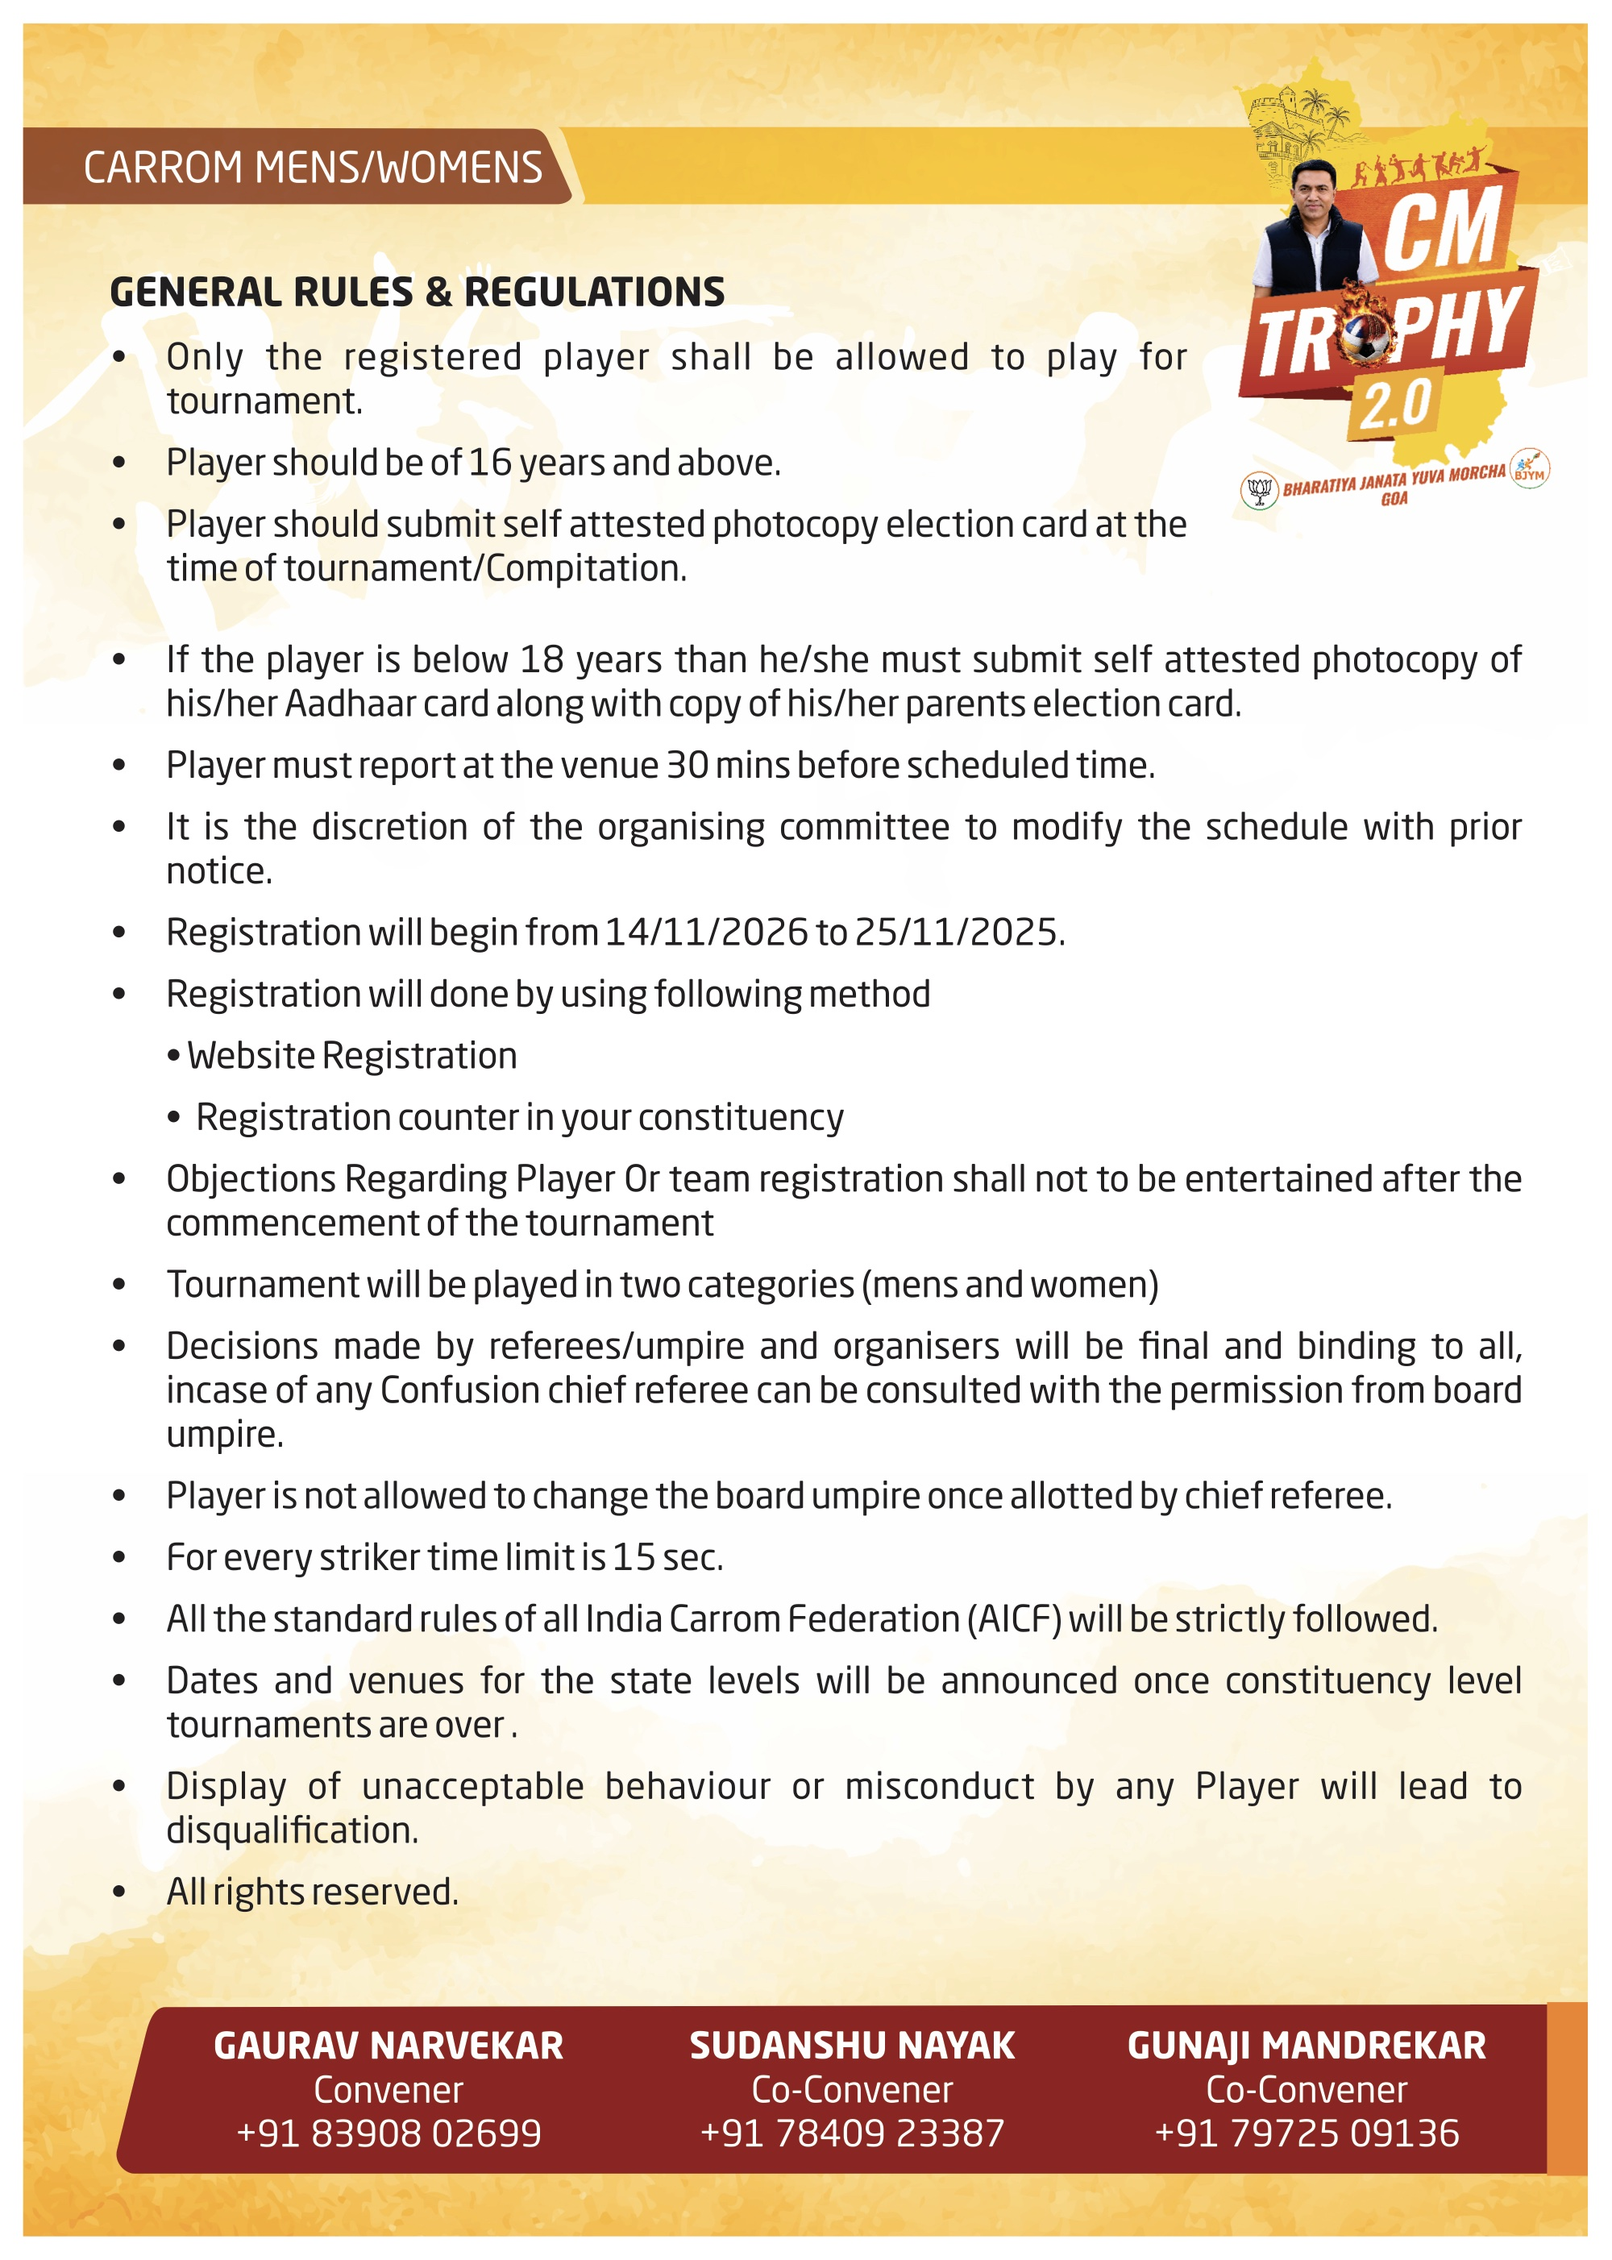
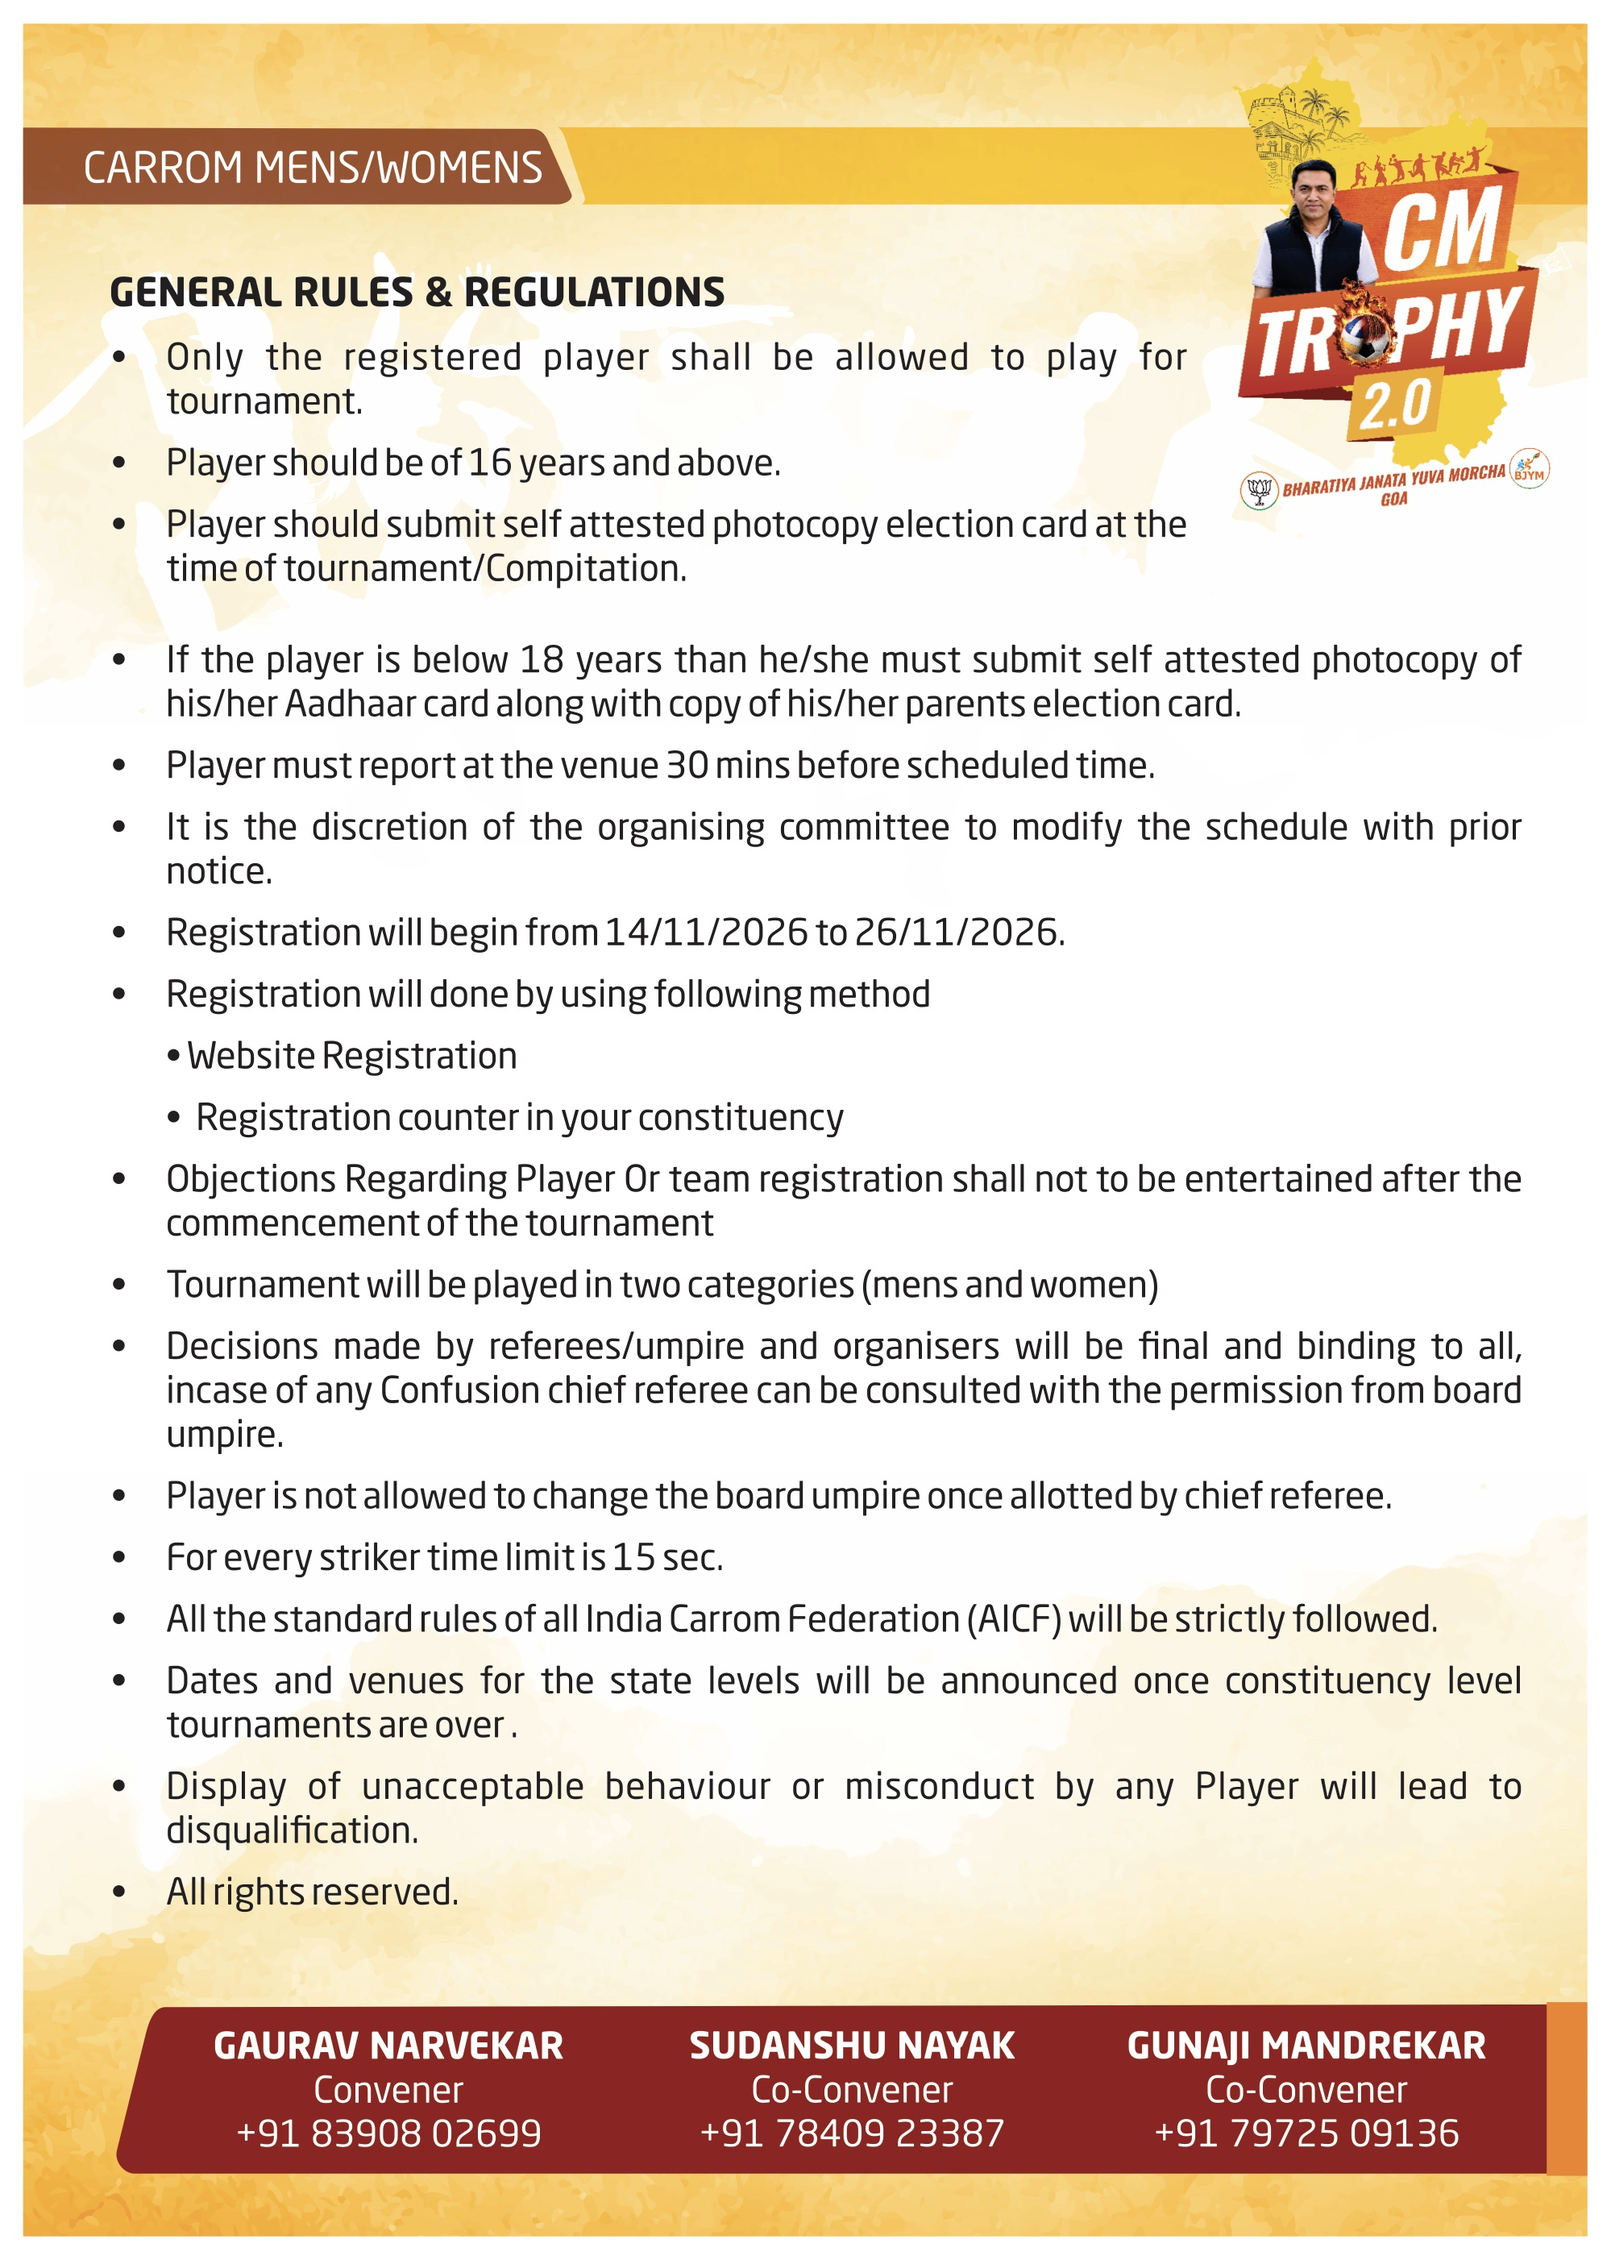
Update event rules and marathon information

diff --git a/public/rules/rules.js b/public/rules/rules.js
@@ -3,8 +3,8 @@ const events = {
   cricket: { title: 'Cricket', pages: [2, 3] },
   football: { title: 'Football', pages: [4, 5, 6, 7] },
   volleyball: { title: 'Volleyball', pages: [8, 9] },
-  carrom: { title: 'Carrom', pages: [10, 11], dateWarning: true },
-  badminton: { title: 'Badminton', pages: [12, 13], dateWarning: true },
+  carrom: { title: 'Carrom', pages: [10, 11] },
+  badminton: { title: 'Badminton', pages: [12, 13] },
   'ghumat-aarti': { title: 'Ghumat Aarti', pages: [14, 15, 16, 17] },
   'group-dance': { title: 'Group Dance', pages: [18, 19] },
   fugdi: { title: 'Fugdi', pages: [20] },
@@ -27,23 +27,17 @@ if (params.get('allow_register') === 'true') {
 if (!event) {
   message.textContent = 'This event could not be found. Please return to the homepage and choose an event.';
 } else {
-  document.title = `${event.title} rules | CM Trophy`;
-  document.querySelector('#event-title').textContent = `${event.title} rules`;
+  const heading = eventName === 'marathon' ? 'Marathon information' : `${event.title} rules`;
+  document.title = `${heading} | CM Trophy`;
+  document.querySelector('#event-title').textContent = heading;
 
   if (params.get('allow_register') === 'true') {
     document.querySelector('#register').hidden = false;
   }
 
-  if (event.pages.length === 0) {
-    message.textContent = 'Marathon rules are not available yet. Please contact the organisers for details.';
+  if (eventName === 'marathon') {
+    document.querySelector('#marathon-information').hidden = false;
   } else {
-    if (event.dateWarning) {
-      const warning = document.createElement('p');
-      warning.className = 'warning';
-      warning.textContent = 'The printed registration dates contain errors. Please contact the organisers for details.';
-      message.after(warning);
-    }
-
     const pages = document.querySelector('#rule-pages');
     event.pages.forEach((pageNumber, index) => {
       const link = document.createElement('a');

diff --git a/public/register/register.js b/public/register/register.js
@@ -178,7 +178,7 @@ function configureEvent() {
     eventOption.required = true;
   }
   document.querySelector('#event-description').textContent = eventSelect.value === 'marathon'
-    ? 'This is an individual event. Marathon rules have not yet been provided; contact the organisers for details.'
+    ? 'This is an individual event. See the marathon information for event details.'
     : event.max > 1 ? `Team size: ${event.min}–${event.max}, including the captain.` : 'This is an individual event.';
   const primaryTitle = eventSelect.value === 'cricket' ? 'Team Leader / Captain' : 'Primary participant';
   document.querySelector('#primary-heading').textContent = primaryTitle;
@@ -265,6 +265,8 @@ function renderReview(data) {
   document.querySelector('#success-rules-link').href = rules;
   document.querySelector('#rules-link').textContent = data.event === 'marathon' ? 'View marathon information' : 'Read the event rules';
   document.querySelector('#rules-link').setAttribute('aria-label', `${document.querySelector('#rules-link').textContent} (opens in a new tab)`);
+  document.querySelector('#success-rules-link').textContent = data.event === 'marathon' ? 'View marathon information' : 'View event rules';
+  document.querySelector('#success-rules-link').setAttribute('aria-label', `${document.querySelector('#success-rules-link').textContent} (opens in a new tab)`);
   document.querySelector('#consent-label').textContent = data.event === 'marathon'
     ? 'I have reviewed the event information and confirm that I have permission to submit these details.'
     : 'I have read the rules and confirm that I have permission to submit these details for all participants.';

diff --git a/public/rules/index.html b/public/rules/index.html
@@ -21,6 +21,25 @@
       <div id="register" class="registration" hidden>
         <a href="/register/">Register <span aria-hidden="true">&#8594;</span></a>
       </div>
+      <section id="marathon-information" hidden>
+        <h2>Event details</h2>
+        <p>22 November 2026 &middot; Report at 4:30 AM &middot; New Zuarii Bridge</p>
+        <p>5 km, 10 km and 21 km half marathon, with men's and women's categories.</p>
+        <p>Prizes for first, second and third place in each men's and women's category:</p>
+        <ul>
+          <li>5 km: &#8377;10,000, &#8377;6,000 and &#8377;4,000</li>
+          <li>10 km: &#8377;20,000, &#8377;12,000 and &#8377;8,000</li>
+          <li>21 km: &#8377;50,000, &#8377;30,000 and &#8377;20,000</li>
+        </ul>
+        <p>For competition rules and further details, contact:</p>
+        <ul>
+          <li>Kareena Shirodkar: <a href="tel:+919881284448">9881284448</a></li>
+          <li>Tanvesh Keni: <a href="tel:+919970702179">+91 99707 02179</a></li>
+        </ul>
+        <a class="rule-page" href="/rules/pages/marathon-poster.png" aria-label="Open the marathon poster at full size">
+          <img src="/rules/pages/marathon-poster.png" alt="CM Trophy half marathon poster. Event details and prizes are listed above." loading="lazy">
+        </a>
+      </section>
       <div id="rule-pages"></div>
       <noscript><p>JavaScript is required to display the event rules. Please return to the homepage or contact <a href="mailto:goacmtrophy@gmail.com">goacmtrophy@gmail.com</a>.</p></noscript>
     </main>

diff --git a/public/rules/rules.css b/public/rules/rules.css
@@ -7,7 +7,6 @@ body { margin: 0; background: #fffaf0; color: #30251d; font-family: Arial, Helve
 h1 { margin: 0; color: #9c2c20; font-size: clamp(32px, 5vw, 48px); }
 #rules-message { line-height: 1.5; }
 #rules-message:empty { display: none; }
-.warning { padding: 14px; border-left: 4px solid #a71f22; background: #fff0cc; line-height: 1.5; }
 .registration { margin: 24px 0; }
 .registration[hidden] { display: none; }
 .registration a { display: inline-flex; gap: 24px; padding: 14px 22px; border-radius: 4px; background: #ba2c1e; color: #fff; font-weight: 700; text-decoration: none; }

diff --git a/public/index.html b/public/index.html
@@ -23,7 +23,7 @@
         <details>
           <summary>Sports</summary>
           <ul>
-            <li>Marathon</li>
+            <li><a href="/rules/?event=marathon&amp;allow_register=true">Marathon</a></li>
             <li><a href="/rules/?event=cricket&amp;allow_register=true">Cricket</a></li>
             <li><a href="/rules/?event=football&amp;allow_register=true">Football</a></li>
             <li><a href="/rules/?event=volleyball&amp;allow_register=true">Volleyball</a></li>

diff --git a/README.md b/README.md
@@ -4,7 +4,7 @@ A Cloudflare Pages site with an event registration wizard and a Pages Function t
 
 ## Event rules
 
-The homepage links to event rules at `/rules/?event=<event>`. The sheets are images rendered from the supplied PDF; select a sheet to view it at full size. The PDF did not include marathon rules, so the homepage's Marathon item does not link to a rules page. The carrom and badminton sheets contain inconsistent registration dates.
+The homepage links to event rules at `/rules/?event=<event>`. The sheets are images rendered from the supplied PDF; select a sheet to view it at full size. The carrom and badminton images have their registration end dates corrected to 26 November 2026; the supplied PDF itself retains the original errors. The Marathon page shows the supplied event poster, details and contacts; formal competition rules have not been supplied.
 
 Homepage links include `allow_register=true` to show the registration link on rules pages. Direct rules-page URLs can also use this flag. It only controls visibility and is not an authorization mechanism.
 
